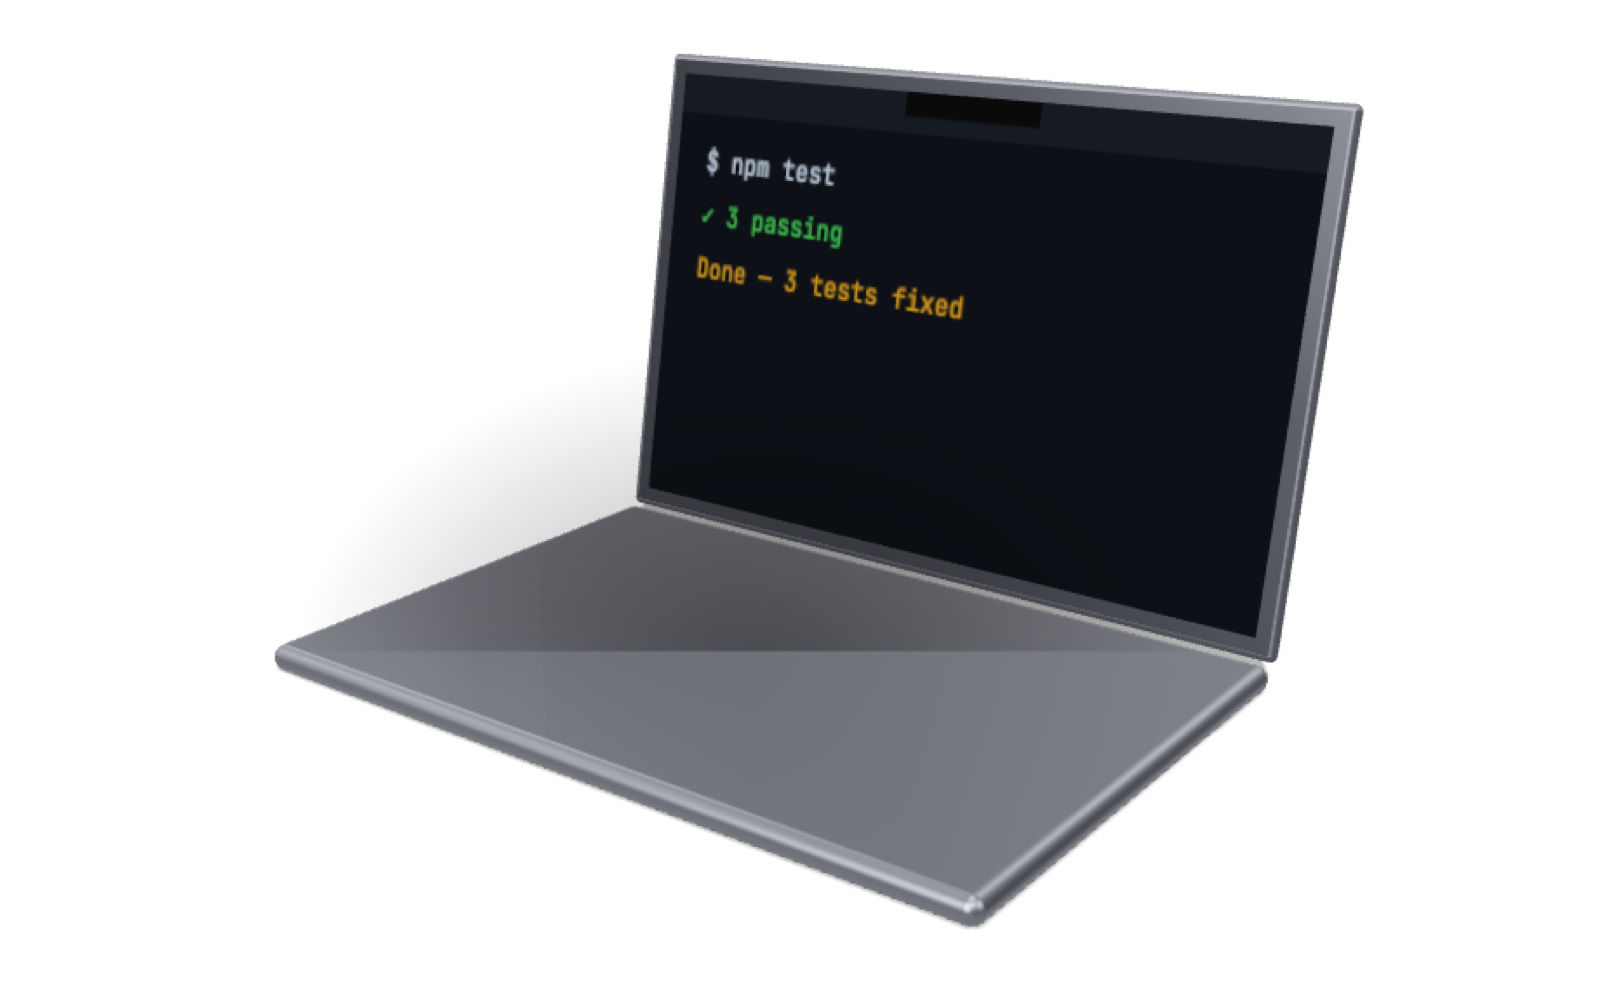
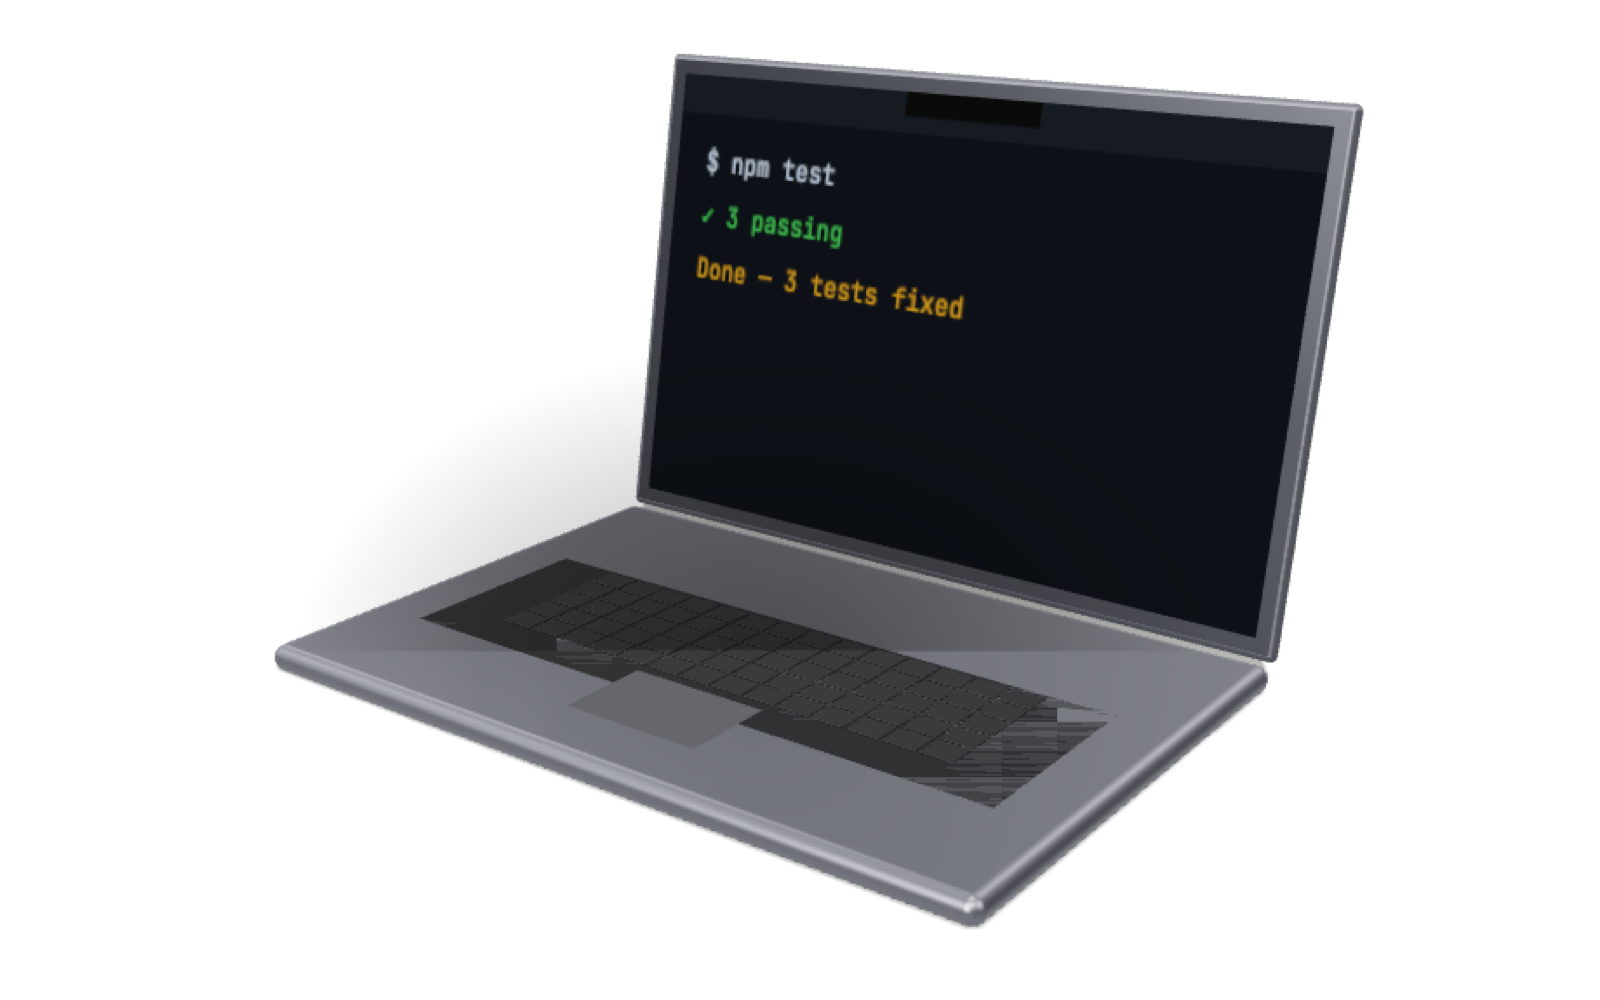
fix: raise keyboard well and keys above deck top surface
Well inset 0.004 into deck (floor at y=0.096), keys 0.006 above well
floor so the grid reads on top of the aluminium deck in open state.

Changed region(s): [[0.25, 0.558, 0.6875, 0.806]]

diff --git a/site/demo-3d.js b/site/demo-3d.js
@@ -218,13 +218,14 @@ export function initLaptopDemo(canvas, onClosedChange, onFirstFrame) {
   base.receiveShadow = true;
   laptop.add(base);
 
-  const WELL_DEPTH = 0.008;
-  const WELL_TOP = 0.094;
+  const DECK_TOP = 0.10;
+  const WELL_DEPTH = 0.004;
+  const WELL_FLOOR = DECK_TOP - WELL_DEPTH;
   const kbWell = new THREE.Mesh(
     new RoundedBoxGeometry(2.5, WELL_DEPTH, 0.8, 2, 0.002),
     new THREE.MeshStandardMaterial({ color: 0x141416, roughness: 0.95 })
   );
-  kbWell.position.set(0, WELL_TOP - WELL_DEPTH * 0.5, 0.1);
+  kbWell.position.set(0, WELL_FLOOR + WELL_DEPTH * 0.5, 0.1);
   laptop.add(kbWell);
 
   const KEY_W = 0.13;
@@ -232,7 +233,7 @@ export function initLaptopDemo(canvas, onClosedChange, onFirstFrame) {
   const KEY_PITCH = KEY_W + KEY_GAP;
   const KEY_D = 0.11;
   const KEY_ROW_PITCH = KEY_D + KEY_GAP;
-  const KEY_Y = WELL_TOP - WELL_DEPTH + 0.006;
+  const KEY_Y = WELL_FLOOR + 0.006;
   const keyGeo = new RoundedBoxGeometry(KEY_W, 0.006, KEY_D, 2, 0.008);
   const keyMat = new THREE.MeshStandardMaterial({ color: 0x1c1c1e, roughness: 0.9 });
   const keys = new THREE.InstancedMesh(keyGeo, keyMat, 70);
@@ -253,7 +254,7 @@ export function initLaptopDemo(canvas, onClosedChange, onFirstFrame) {
     new THREE.MeshStandardMaterial({ color: 0x3a3a3e, roughness: 0.85 })
   );
   trackpad.rotation.x = -Math.PI / 2;
-  trackpad.position.set(0, 0.0958, 0.55);
+  trackpad.position.set(0, DECK_TOP + 0.001, 0.55);
   laptop.add(trackpad);
 
   const footGeo = new THREE.CylinderGeometry(0.04, 0.04, 0.02, 12);

diff --git a/site/index.html b/site/index.html
@@ -223,7 +223,7 @@ SleepDisabled 1                    # still running, on battery</code></pre>
       <span class="foot-version">Version 0.1.1</span>
     </div>
   </footer>
-  <script src="demo.js?v=11" defer></script>
+  <script src="demo.js?v=12" defer></script>
   <script defer src="/_vercel/insights/script.js"></script>
 </body>
 </html>

diff --git a/site/demo.js b/site/demo.js
@@ -15,7 +15,7 @@
   var loading = false;
   var modPromise = null;
   var initPromise = null;
-  var DEMO_3D_VER = '11';
+  var DEMO_3D_VER = '12';
   var useFallback = reduced || !hasWebGL();
 
   function hasWebGL() {
